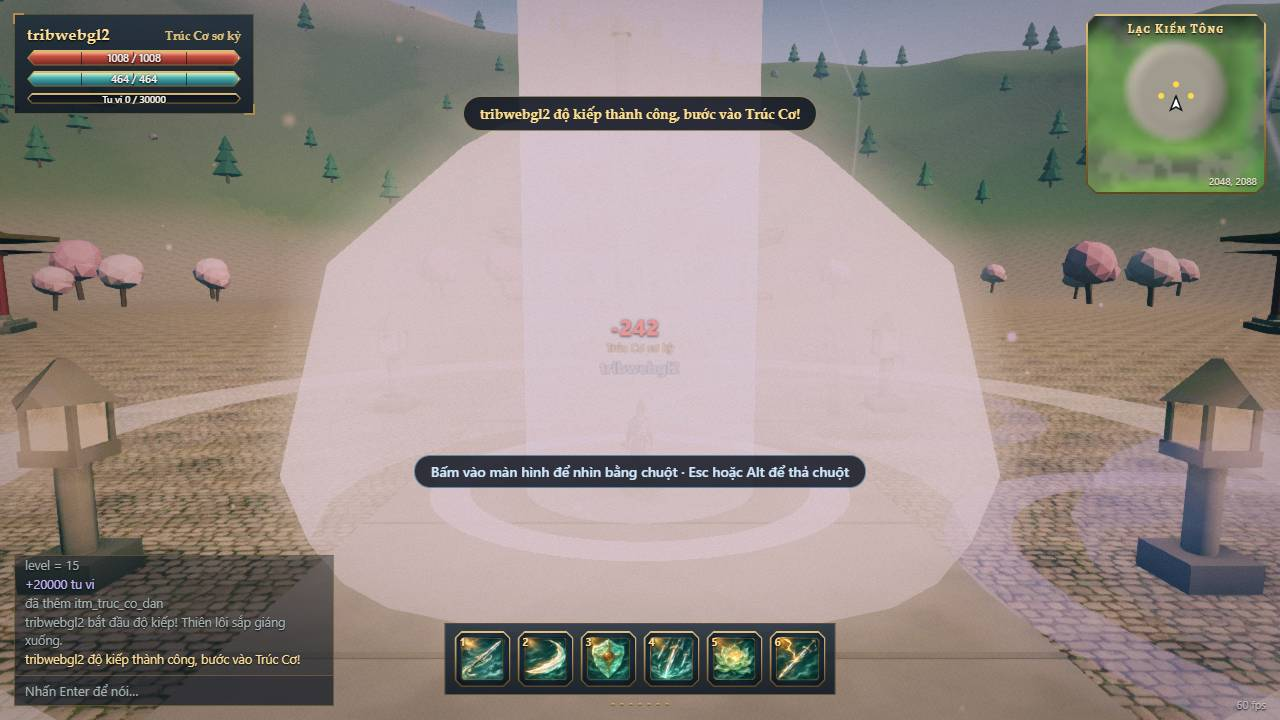
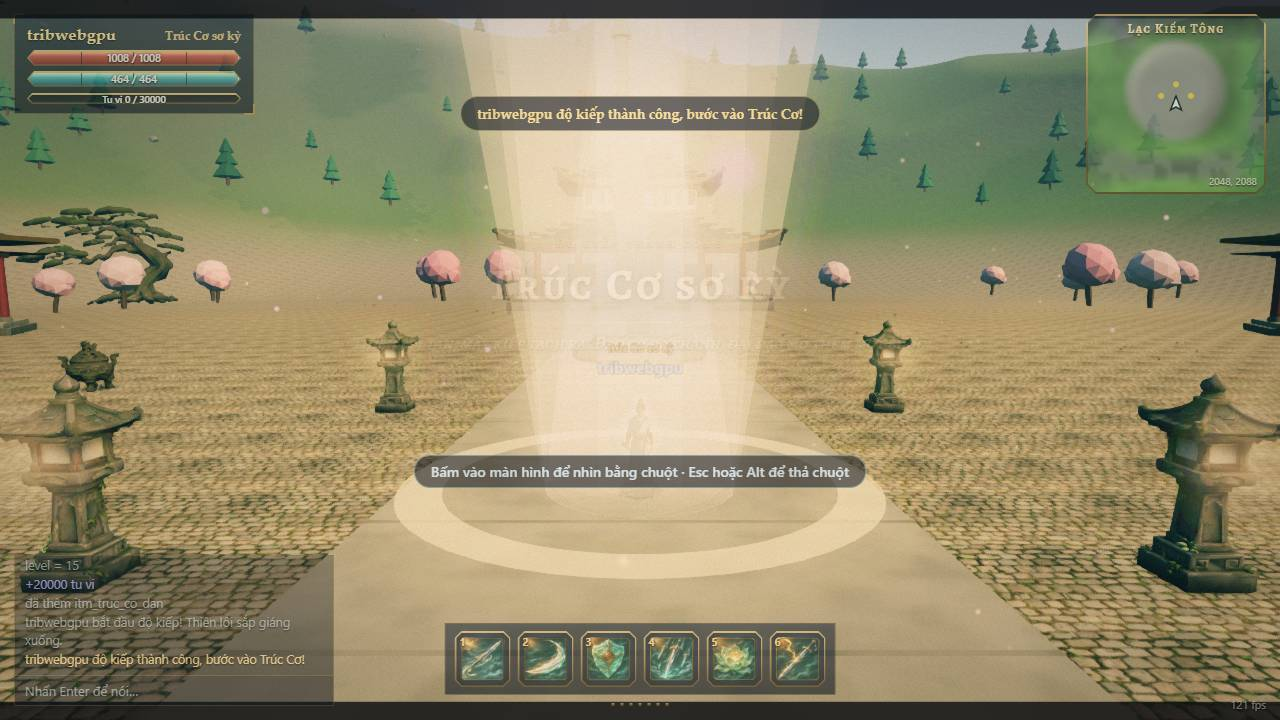
fix(client): P2-B4 đột phá bằng quầng vàng + tia nắng mảnh thay trụ sáng bọc kín, vân xoáy rõ hơn
ascendGlow (ống mảnh, vòng, 5 tia cộng sáng) cho người chơi, chớp 0,3; thẻ chương đột phá không nâng camera vào sương;
shader mây thêm ba cánh xoắn ốc quanh tâm. Ảnh 2/6/7 chụp lại.

diff --git a/apps/client/src/game/vfx.ts b/apps/client/src/game/vfx.ts
@@ -29,6 +29,7 @@ const _a = new THREE.Vector3();
 const _b = new THREE.Vector3();
 const _c = new THREE.Vector3();
 const _q = new THREE.Quaternion();
+const _up = new THREE.Vector3(0, 1, 0);
 const UP = new THREE.Vector3(0, 1, 0);
 const AX_X = new THREE.Vector3(1, 0, 0);
 const AX_Z = new THREE.Vector3(0, 0, 1);
@@ -628,6 +629,50 @@ export class Vfx {
       () => {
         this.drop(m);
         this.drop(ring);
+      },
+    );
+  }
+
+  /**
+   * Đột phá thành công (P2-B4): quầng vàng ấm tỏa từ người, một ống sáng mảnh và chùm tia nắng xòe lên như mây kiếp
+   * vừa tách. Mảnh và cộng sáng để giữ màu cảnh (khác `pillar` bọc kín trước camera). 1 + 1 + 5 lưới trong ~2,6 giây.
+   */
+  ascendGlow(pos: PosFn, dur = 2.6): void {
+    const core = this.fx(TUBE_GEO, 0xffe6a0, 0.3, 'flat');
+    const ring = this.fx(RING_GEO, 0xffd98a, 0.7);
+    ring.rotation.x = -Math.PI / 2;
+    const rays: { m: FxMesh; dir: THREE.Vector3 }[] = [];
+    for (let i = 0; i < 5; i++) {
+      const phi = (i / 5) * Math.PI * 2 + 0.4;
+      const th = 0.16 + (i % 2) * 0.12;
+      const dir = new THREE.Vector3(Math.sin(th) * Math.cos(phi), Math.cos(th), Math.sin(th) * Math.sin(phi));
+      rays.push({ m: this.fx(TUBE_GEO, 0xffe2a0, 0.2, 'glow'), dir });
+    }
+    this.add(
+      dur,
+      (k) => {
+        if (!pos(_a)) return;
+        const rise = Math.min(1, k * 4);
+        const fade = Math.pow(1 - k, 1.5);
+        const h = 46 * rise;
+        core.position.set(_a.x, _a.y - 1.1 + h / 2, _a.z);
+        core.scale.set(0.8, h, 0.8);
+        core.fxOpacity = 0.3 * fade;
+        ring.position.set(_a.x, _a.y - 1.0, _a.z);
+        ring.scale.setScalar(1.2 + k * 7);
+        ring.fxOpacity = 0.7 * (1 - k);
+        for (const r of rays) {
+          const len = 55 * rise;
+          r.m.position.set(_a.x + (r.dir.x * len) / 2, _a.y - 1.1 + (r.dir.y * len) / 2, _a.z + (r.dir.z * len) / 2);
+          r.m.quaternion.setFromUnitVectors(_up, r.dir);
+          r.m.scale.set(1.1 + k * 1.5, len, 1.1 + k * 1.5);
+          r.m.fxOpacity = 0.2 * fade;
+        }
+      },
+      () => {
+        this.drop(core);
+        this.drop(ring);
+        for (const r of rays) this.drop(r.m);
       },
     );
   }

diff --git a/apps/client/src/render/vfx/lightning.ts b/apps/client/src/render/vfx/lightning.ts
@@ -261,7 +261,11 @@ export function vortexNodes(U: FxUniforms) {
   const ring = vec2(cos(th), sin(th));
   const n1 = vnoise(ring.mul(1.0).add(vec2(r.mul(5).sub(time.mul(0.35)), seed)));
   const n2 = vnoise(ring.mul(2.1).add(vec2(r.mul(11).sub(time.mul(0.6)), seed.mul(1.7))));
-  const dens = smoothstep(0.2, 0.6, n1.mul(0.65).add(n2.mul(0.35)));
+  const base = smoothstep(0.2, 0.6, n1.mul(0.65).add(n2.mul(0.35)));
+  // Cánh xoắn ốc rõ nét quanh tâm: 3 cánh theo góc đã cuộn, mờ dần ra mép để không lộ họa tiết.
+  const arms = smoothstep(-0.1, 0.9, sin(th.mul(3)));
+  const armW = one.sub(smoothstep(0.35, 0.95, r)).mul(0.6).add(0.15);
+  const dens = base.mul(one.sub(armW)).add(arms.mul(armW).mul(base.mul(0.6).add(0.4)));
   // Mép ngoài tan; mắt bão ở giữa mỏng hơn.
   const edge = one.sub(smoothstep(0.65, 1, r));
   const eye = smoothstep(0.04, 0.2, r);

diff --git a/apps/client/src/game/engine.ts b/apps/client/src/game/engine.ts
@@ -1323,9 +1323,11 @@ export class Game {
         v.pillar(posSrc, 0xffe08a, 1.8, 1.4, 12);
         break;
       case 'ascend':
-        v.pillar(posSrc, 0xfff2b8, 3.2, 2.4, 40);
+        // Người khác thấy trụ sáng như cũ; của mình thì quầng + tia nắng mảnh để không phủ trắng khung hình.
+        if (src === this.sid) v.ascendGlow(posSrc);
+        else v.pillar(posSrc, 0xfff2b8, 3.2, 2.4, 40);
         if (src === this.sid) {
-          this.post?.flash(0.6);
+          this.post?.flash(0.3);
           // Thẻ chương đột phá sau khi mây kiếp tan và trụ sáng bốc lên; sting đột phá đã phát nên không thêm chiêng.
           window.setTimeout(() => !this.disposed && this.chapter('ascend', false), 1100);
         }

diff --git a/apps/client/src/game/chapter.ts b/apps/client/src/game/chapter.ts
@@ -24,7 +24,7 @@ export const CHAPTER: Record<ChapterKind, ChapterPreset> = {
   dungeon: { card: 2800, dist: 1.2, pitch: 0.06, cam: 2.2 },
   trib: { card: 2800, dist: 1.25, pitch: -0.14, cam: 2.2 },
   /** Đột phá thành công: ngẩng lên trời quang sau mây kiếp. */
-  ascend: { card: 3000, dist: 1.3, pitch: 0.12, cam: 3 },
+  ascend: { card: 3000, dist: 1.15, pitch: -0.04, cam: 3 },
 };
 
 const EASE_IN = 0.7;

diff --git a/docs/p2-b4/README.md b/docs/p2-b4/README.md
@@ -1,11 +1,11 @@
 # P2-B4 — Cảnh độ kiếp kịch tính
 
-Ảnh chụp bằng Playwright Chromium headless (WebGL2; máy chụp không có WebGPU thật), `?mute=1`, `?god`, `/gm level 15` + `/gm xp` + `/gm give itm_truc_co_dan`, bấm độ kiếp.
+Ảnh 2, 6, 7 chụp bằng Chrome thật (WebGPU, RTX 3060 Ti); ảnh 1, 3, 4, 5 chụp lượt trước bằng Chromium headless (WebGL2), `?mute=1`, `?god`, `/gm level 15` + `/gm xp` + `/gm give itm_truc_co_dan`, bấm độ kiếp.
 
 1. `1-truoc-do-kiep.png`: trước khi độ kiếp (màu thường).
-2. `2-may-xoay-letterbox.png`: 6 giây đầu, ngẩng camera thấy hai tầng mây kiếp xoáy; letterbox mỏng, nhãn 3D ẩn, màu chìm tối/tím.
+2. `2-may-xoay-letterbox.png`: 6 giây đầu, ngẩng camera hết cỡ (tele 95°) thấy hai tầng mây kiếp xoáy, ba cánh xoắn ốc và mắt bão tím; letterbox mỏng, nhãn 3D ẩn, màu chìm tối/tím.
 3. `3-mau-toi-tim.png`: giữa kiếp, tông tối/tím toàn cảnh.
 4. `4-set-danh.png`: tia sét đánh theo vùng báo trước (chớp + rung camera).
 5. `5-preset-thap.png`: cùng cảnh ở preset Thấp.
-6. `6-khoanh-khac-dot-pha.jpg`: vừa đột phá: trụ sáng, màu đã trả về.
-7. `7-the-chuong-dot-pha.jpg`: thẻ chương "Trúc Cơ sơ kỳ" (chụp với đồng hồ chậm lại vì máy chụp chỉ ~10 fps lúc cao điểm).
+6. `6-khoanh-khac-dot-pha.jpg`: vừa đột phá: quầng vàng ấm tỏa từ người và chùm tia nắng xòe lên (cộng sáng, mảnh), màu cảnh giữ nguyên.
+7. `7-the-chuong-dot-pha.jpg`: thẻ chương "Trúc Cơ sơ kỳ" ngay sau đột phá, chụp trong luồng thật.
